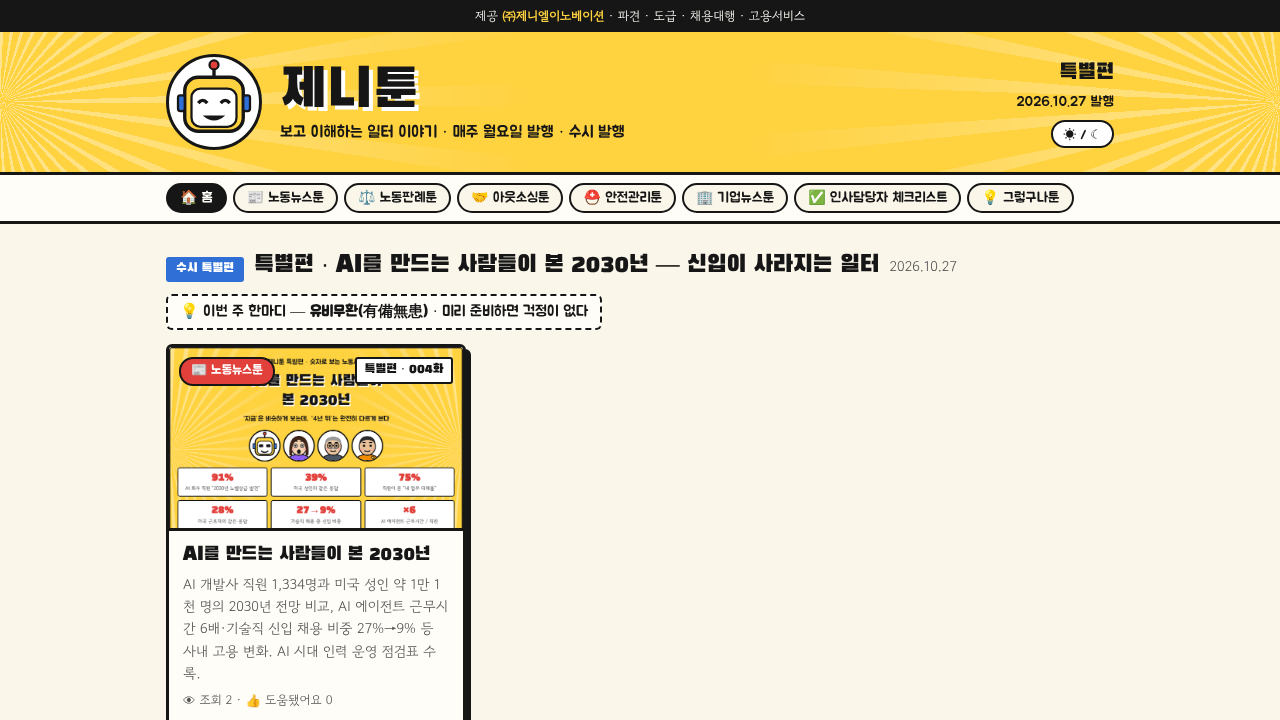
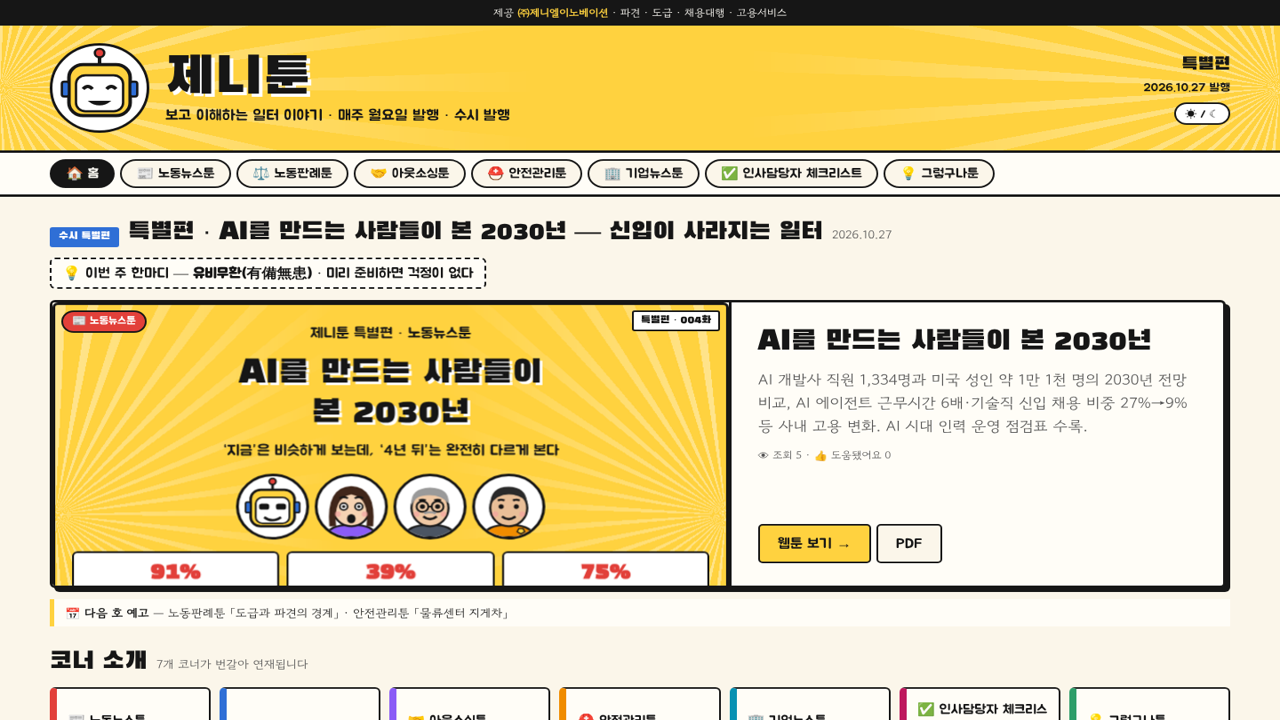
PC 화면 매거진형 적용: 목록 1,360px·이번 호 대형 배너, 웹툰 보기 960px·17px
- 1024px 이상에서만 적용, 모바일 화면은 그대로 유지
- 대표님이 시안 3종 중 매거진형 선택

Claude-Session: https://claude.ai/code/session_01V4aL43DAh5kouocWrW1ejs

diff --git a/index.html b/index.html
@@ -118,6 +118,25 @@ footer .info{font-size:13px;color:var(--sub);margin-top:16px;line-height:1.8}
 .ios-steps{margin:10px 0 0;padding-left:20px;font-size:14.5px;line-height:1.9}
 .toast{position:fixed;left:50%;transform:translateX(-50%);bottom:90px;z-index:60;background:#161616;color:#fff;border-radius:20px;padding:8px 16px;font-size:14px;display:none;gap:10px;align-items:center}
 .toast.on{display:flex}.toast button{background:#ffd23f;border:0;border-radius:12px;padding:3px 10px;font-family:'Jua';cursor:pointer}
+@media (min-width:1024px){
+  body{font-size:17px}
+  .wrap{max-width:1360px}
+  .logo{font-size:64px}.logo small{font-size:18px}
+  .mascot{width:112px;height:112px;flex-basis:112px}
+  .tab{font-size:16px;padding:6px 16px}
+  .sec-h h2{font-size:30px}
+  .saying{font-size:17px}
+  /* 매거진형: 첫 카드를 대형 배너로 */
+  .grid{grid-template-columns:repeat(auto-fill,minmax(290px,1fr));gap:22px}
+  .grid .card:first-child{grid-column:1/-1;flex-direction:row;min-height:360px}
+  .grid .card:first-child .th{flex:0 0 58%;aspect-ratio:auto;border-bottom:0;border-right:3px solid var(--ink)}
+  .grid .card:first-child .bd{padding:28px 30px;gap:12px}
+  .grid .card:first-child h3{font-size:34px}
+  .grid .card:first-child p{font-size:18px}
+  .grid .card:first-child .btn{font-size:17px;padding:9px 20px}
+  .card h3{font-size:21px}.card p{font-size:15px}
+  .corners{grid-template-columns:repeat(auto-fill,minmax(170px,1fr))}
+}
 @media (max-width:640px){
   .tabs{display:none}
   .bbar{display:block}

diff --git a/ep/001.html b/ep/001.html
@@ -127,6 +127,7 @@ mark{background:var(--yellow);color:#161616;padding:0 3px}
   .bar{grid-template-columns:86px 1fr 46px;font-size:13px}
   .cover .cast svg{width:60px;height:60px}
 }
+@media (min-width:1024px){.wrap{max-width:960px}body{font-size:17px}.bub{font-size:17px}.ep h2{font-size:30px}.who{flex-basis:80px}.who svg{width:76px;height:76px}.cover h1{font-size:46px}.num b{font-size:30px}}
 @media print{.theme-btn{display:none}}
 </style>
 <style>

diff --git a/ep/002.html b/ep/002.html
@@ -127,6 +127,7 @@ mark{background:var(--yellow);color:#161616;padding:0 3px}
   .bar{grid-template-columns:86px 1fr 46px;font-size:13px}
   .cover .cast svg{width:60px;height:60px}
 }
+@media (min-width:1024px){.wrap{max-width:960px}body{font-size:17px}.bub{font-size:17px}.ep h2{font-size:30px}.who{flex-basis:80px}.who svg{width:76px;height:76px}.cover h1{font-size:46px}.num b{font-size:30px}}
 @media print{.theme-btn{display:none}}
 </style>
 <style>

diff --git a/ep/003.html b/ep/003.html
@@ -127,6 +127,7 @@ mark{background:var(--yellow);color:#161616;padding:0 3px}
   .bar{grid-template-columns:86px 1fr 46px;font-size:13px}
   .cover .cast svg{width:60px;height:60px}
 }
+@media (min-width:1024px){.wrap{max-width:960px}body{font-size:17px}.bub{font-size:17px}.ep h2{font-size:30px}.who{flex-basis:80px}.who svg{width:76px;height:76px}.cover h1{font-size:46px}.num b{font-size:30px}}
 @media print{.theme-btn{display:none}}
 </style>
 <style>

diff --git a/ep/004.html b/ep/004.html
@@ -127,6 +127,7 @@ mark{background:var(--yellow);color:#161616;padding:0 3px}
   .bar{grid-template-columns:86px 1fr 46px;font-size:13px}
   .cover .cast svg{width:60px;height:60px}
 }
+@media (min-width:1024px){.wrap{max-width:960px}body{font-size:17px}.bub{font-size:17px}.ep h2{font-size:30px}.who{flex-basis:80px}.who svg{width:76px;height:76px}.cover h1{font-size:46px}.num b{font-size:30px}}
 @media print{.theme-btn{display:none}}
 </style>
 <style>

diff --git a/sw.js b/sw.js
@@ -1,5 +1,5 @@
 /* 제니툰 서비스워커 — 발행 시 V(캐시 버전)를 올릴 것 */
-const V = 'zenitoon-v8';
+const V = 'zenitoon-v9';
 const SHELL = [
   '/', '/index.html', '/data.js', '/firebase-config.js', '/zt-fire.js', '/zt-nav.js',
   '/manifest.webmanifest', '/offline.html',
